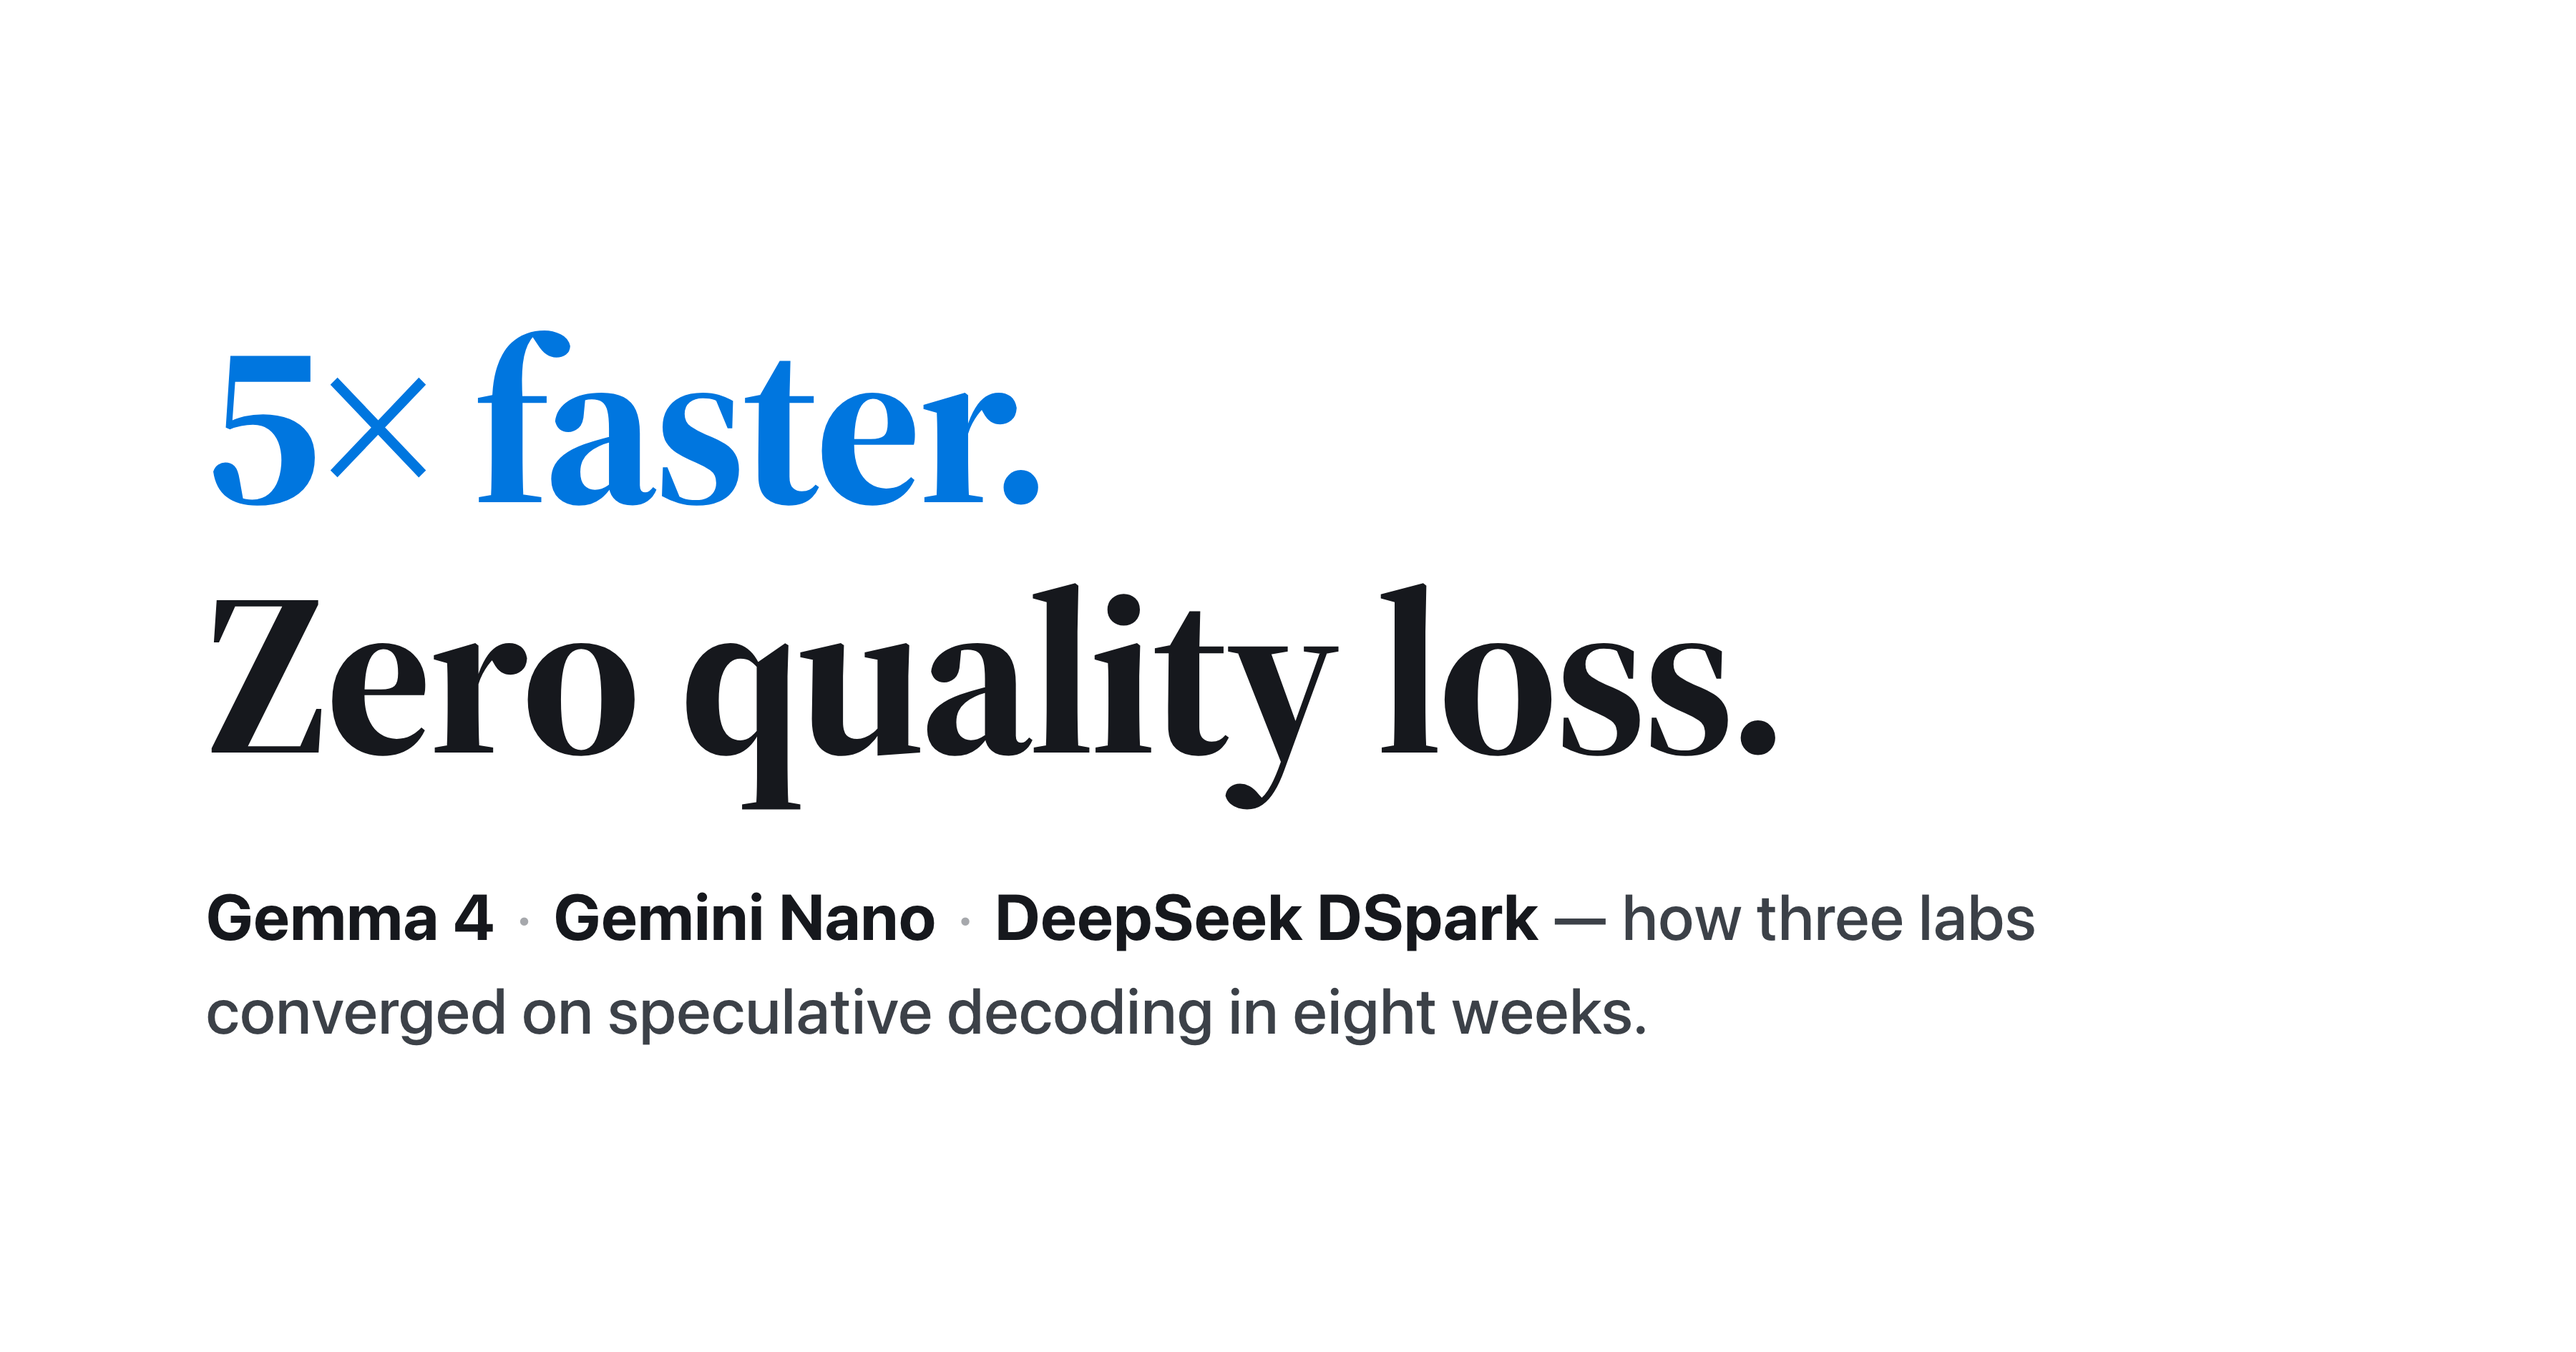
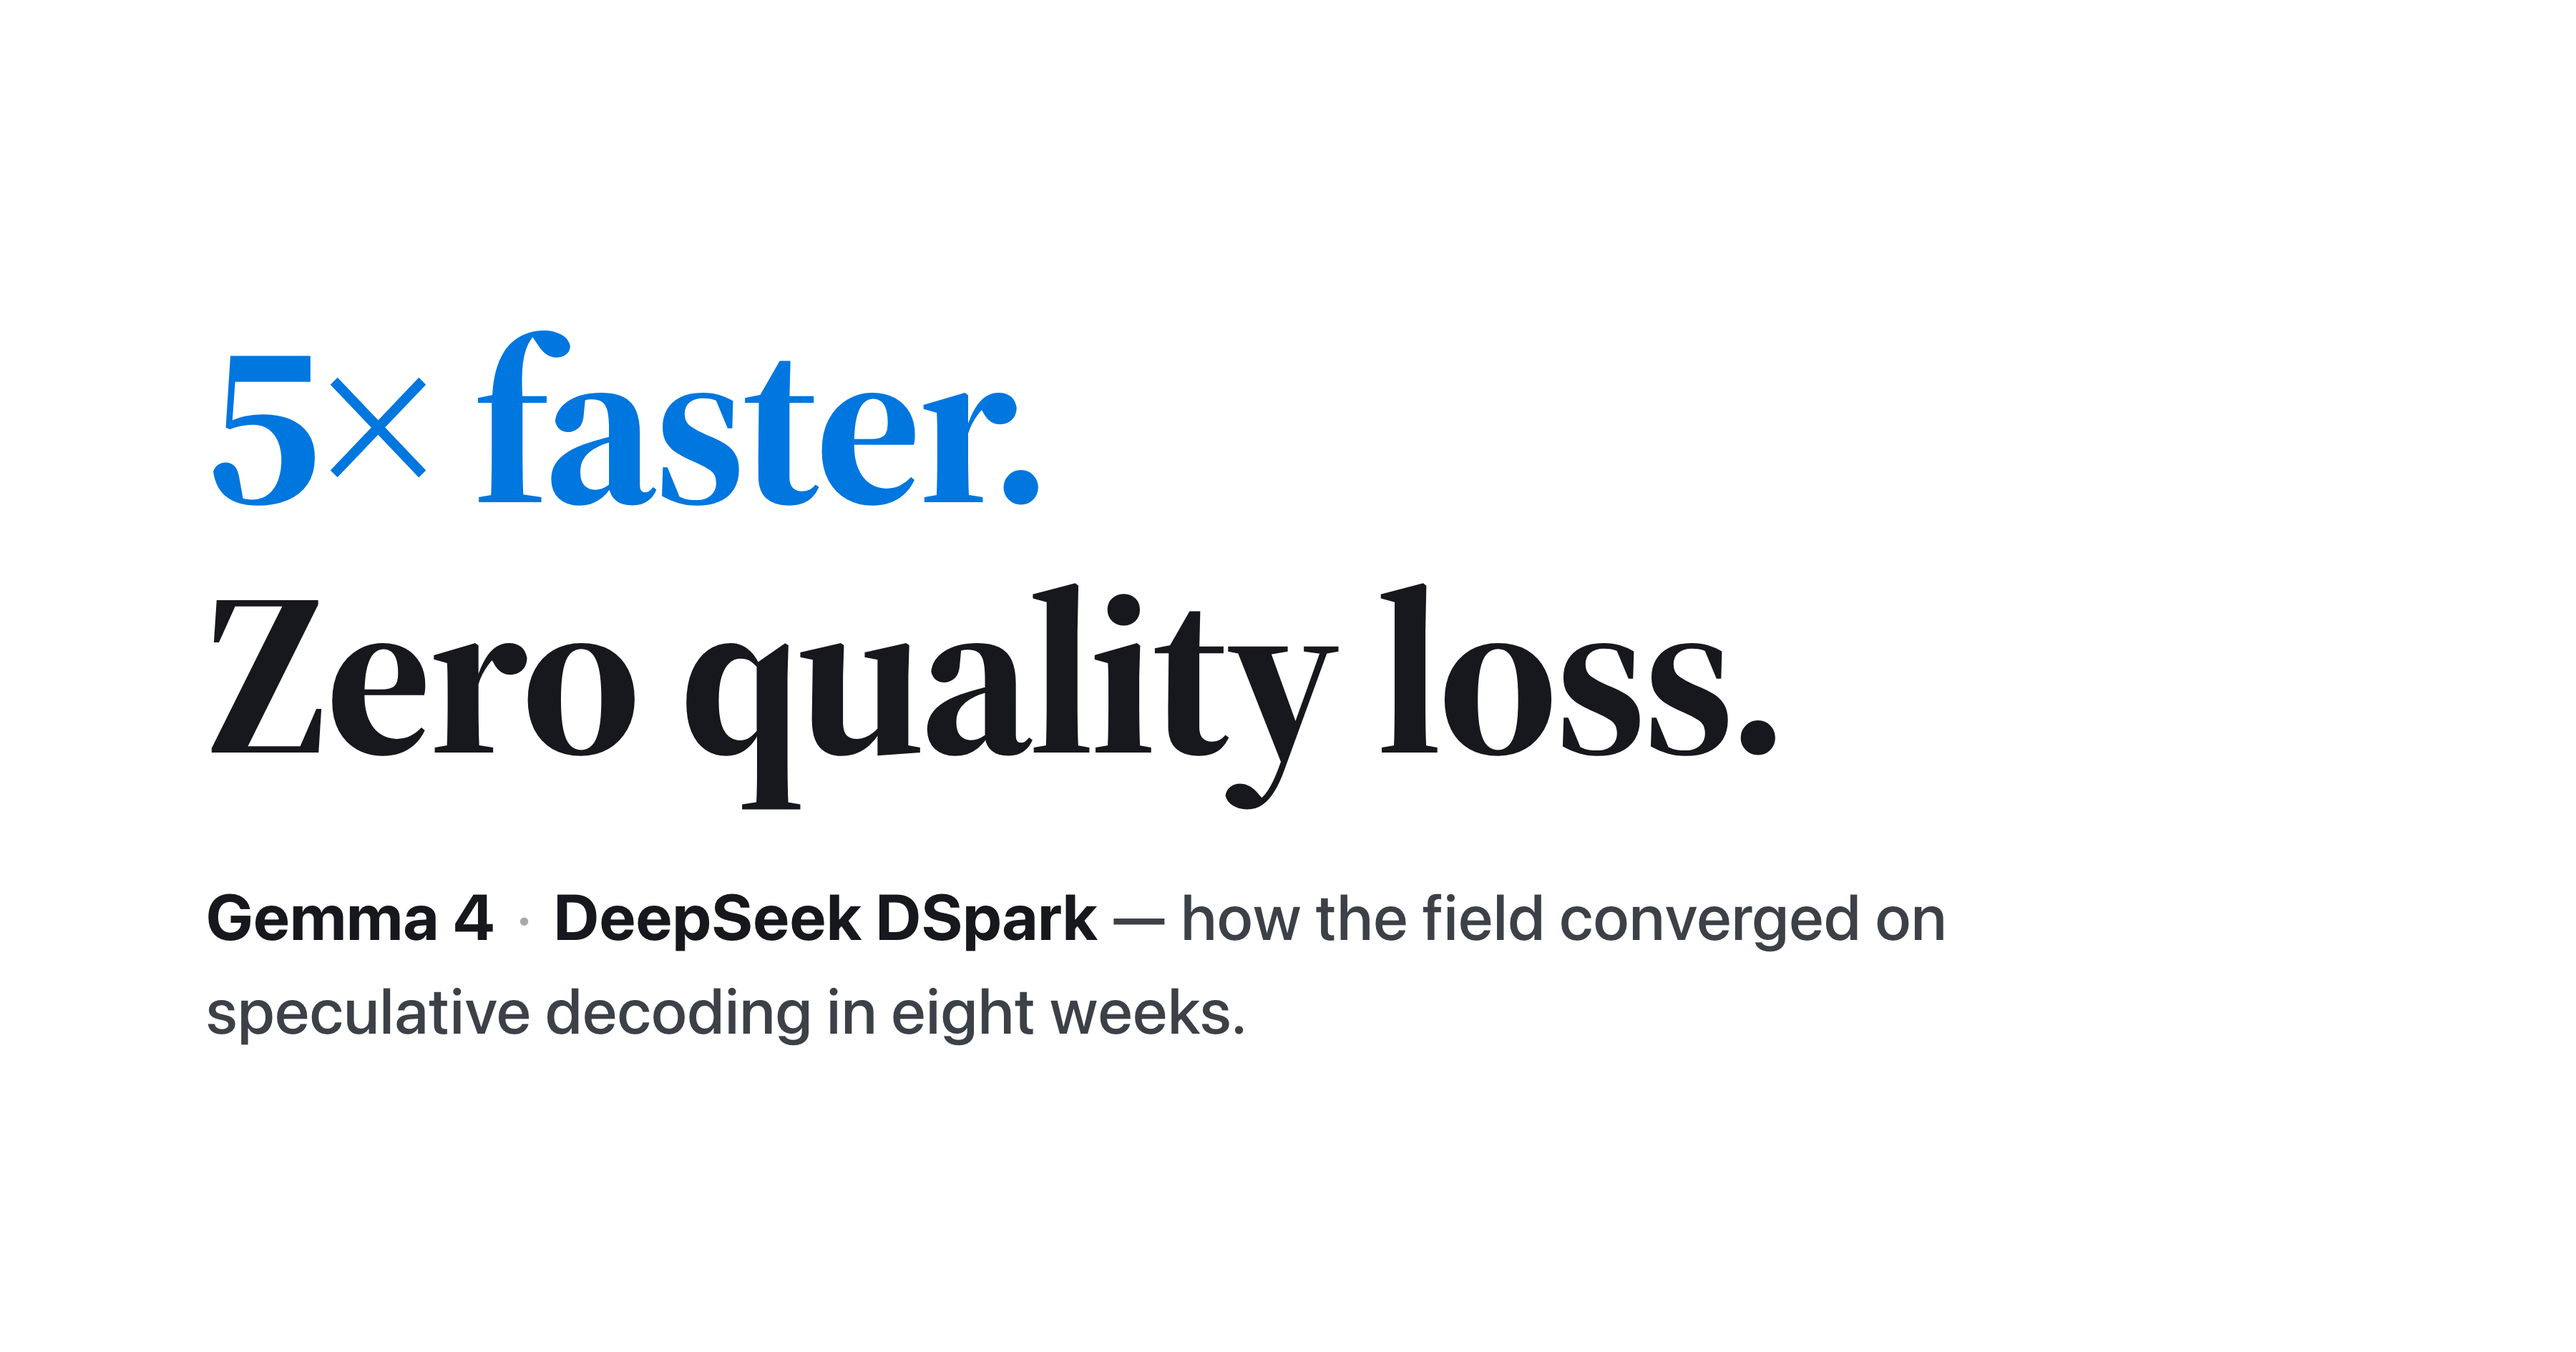
og-card: drop Gemini Nano from sub-line; add OG card SOP
- Sub-line now 'Gemma 4 · DeepSeek DSpark — how the field converged...'
- OG-CARD-SOP.md documents the reusable workflow: design rules,
  3x (3600x1890) render requirement, Chrome command, checklist

Changed region(s): [[0.0933, 0.6556, 0.7778, 0.7804]]

diff --git a/assets/blog/2026/speculativedecoding/og-card.html b/assets/blog/2026/speculativedecoding/og-card.html
@@ -51,7 +51,7 @@
 
   <h1><span class="accent">5× faster.</span><br>Zero quality loss.</h1>
 
-  <p class="sub"><b>Gemma&nbsp;4</b><span class="dot">·</span><b>Gemini&nbsp;Nano</b><span class="dot">·</span><b>DeepSeek DSpark</b> — how three labs converged on speculative decoding in eight weeks.</p>
+  <p class="sub"><b>Gemma&nbsp;4</b><span class="dot">·</span><b>DeepSeek DSpark</b> — how the field converged on speculative decoding in eight weeks.</p>
 
 </body>
 </html>

diff --git a/OG-CARD-SOP.md b/OG-CARD-SOP.md
@@ -1,0 +1,79 @@
+# OG Card SOP — 博客社交预览图制作流程
+
+> 适用：每篇博客的 Twitter / LinkedIn 预览图（`og:image` / `twitter:image`）。
+> 基准范例：`assets/blog/2026/speculativedecoding/og-card.{html,png}`（2026-07 定稿）。
+
+## 设计原则（定稿共识，勿回退）
+
+1. **不写页面标题、不写作者名、不写域名** —— LinkedIn/Twitter 卡片自带标题和域名显示，图里重复即冗余。
+2. **图只负责"钩子"**：一句反直觉的大标语（如 `5× faster. / Zero quality loss.`）+ 一行熟面孔名字制造好奇心。不用纯抽象图形（无点击理由），不放装饰性图案（token 图案已否决）。
+3. **极简、高级、低调**：白底、大量留白、只有"墨色 + 一点站点蓝"两个颜色层。
+4. **风格与文章排版同源**：
+   - 大标语：衬线 `Source Serif 4`（Google Fonts），bold，负字距（`letter-spacing: -0.02em`）
+   - 副题：系统无衬线，`#3c4148`（不要浅灰，可读性差）
+   - 强调色：站点蓝 `#0076df`（仅用于标语中的关键词）
+   - 墨色：`#16181d`
+   - 不用 "Puget Sound Journal" 字样（已全站弃用）
+
+## 精度要求（硬性）
+
+| 项 | 要求 |
+|---|---|
+| 逻辑尺寸 | 1200 × 630（社交平台标准比例 1.91:1） |
+| 输出分辨率 | **3x = 3600 × 1890**（`--force-device-scale-factor=3`，不要再缩回 1x） |
+| 上限 | 边长 ≤ 4096px、体积 ≤ 5MB（平台限制；平色+文字的 PNG 通常 <300KB，无需担心） |
+| 格式 | PNG |
+
+## 制作步骤
+
+1. **复制模板**到新文章的资源目录：
+
+   ```bash
+   cp assets/blog/2026/speculativedecoding/og-card.html assets/blog/<year>/<slug>/og-card.html
+   ```
+
+2. **只改两处文字**（保持其余样式不动）：
+   - `<h1>`：大标语两行——第一行带 `class="accent"` 的钩子（数字/反直觉结论优先），第二行墨色补刀
+   - `.sub`：`<b>名字</b> · <b>名字</b> — 一句话说清"错过了什么"`
+
+3. **渲染 PNG**（在仓库根目录执行）：
+
+   ```bash
+   "/Applications/Google Chrome.app/Contents/MacOS/Google Chrome" \
+     --headless --disable-gpu \
+     --screenshot=assets/blog/<year>/<slug>/og-card.png \
+     --window-size=1200,630 --force-device-scale-factor=3 \
+     --virtual-time-budget=8000 --hide-scrollbars \
+     "file://$PWD/assets/blog/<year>/<slug>/og-card.html"
+   ```
+
+   > `--virtual-time-budget=8000` 是为了等 Google Fonts 加载完成，不可省略。
+
+4. **校验**：
+
+   ```bash
+   sips -g pixelWidth -g pixelHeight assets/blog/<year>/<slug>/og-card.png
+   # 期望输出 3600 / 1890
+   ```
+
+   并肉眼检查一遍渲染结果（字体是否为衬线、有无截断）。
+
+5. **接线**：文章 `index.html` 头部两处 meta 指向绝对 URL：
+
+   ```html
+   <meta property="og:image" content="https://pengandy.com/assets/blog/<year>/<slug>/og-card.png">
+   <meta name="twitter:image" content="https://pengandy.com/assets/blog/<year>/<slug>/og-card.png">
+   ```
+
+6. **提交**：`og-card.html`（设计稿留档）+ `og-card.png` + meta 改动一起 commit。
+
+7. **发布后**：发 LinkedIn 前用 [Post Inspector](https://www.linkedin.com/post-inspector/) 跑一遍文章 URL——既强制刷新平台缓存，也预检真实卡片效果。
+
+## Checklist（发布前逐项过）
+
+- [ ] 图中没有页面标题 / 作者名 / 域名 / "Puget Sound Journal"
+- [ ] 钩子是具体的数字或反直觉结论，不是泛泛形容词
+- [ ] 只有墨色 + 站点蓝两个颜色层；副题为 `#3c4148` 而非浅灰
+- [ ] 输出为 3600 × 1890 PNG，< 5MB
+- [ ] meta 为绝对 URL（https://pengandy.com/...）
+- [ ] Post Inspector 验证通过
